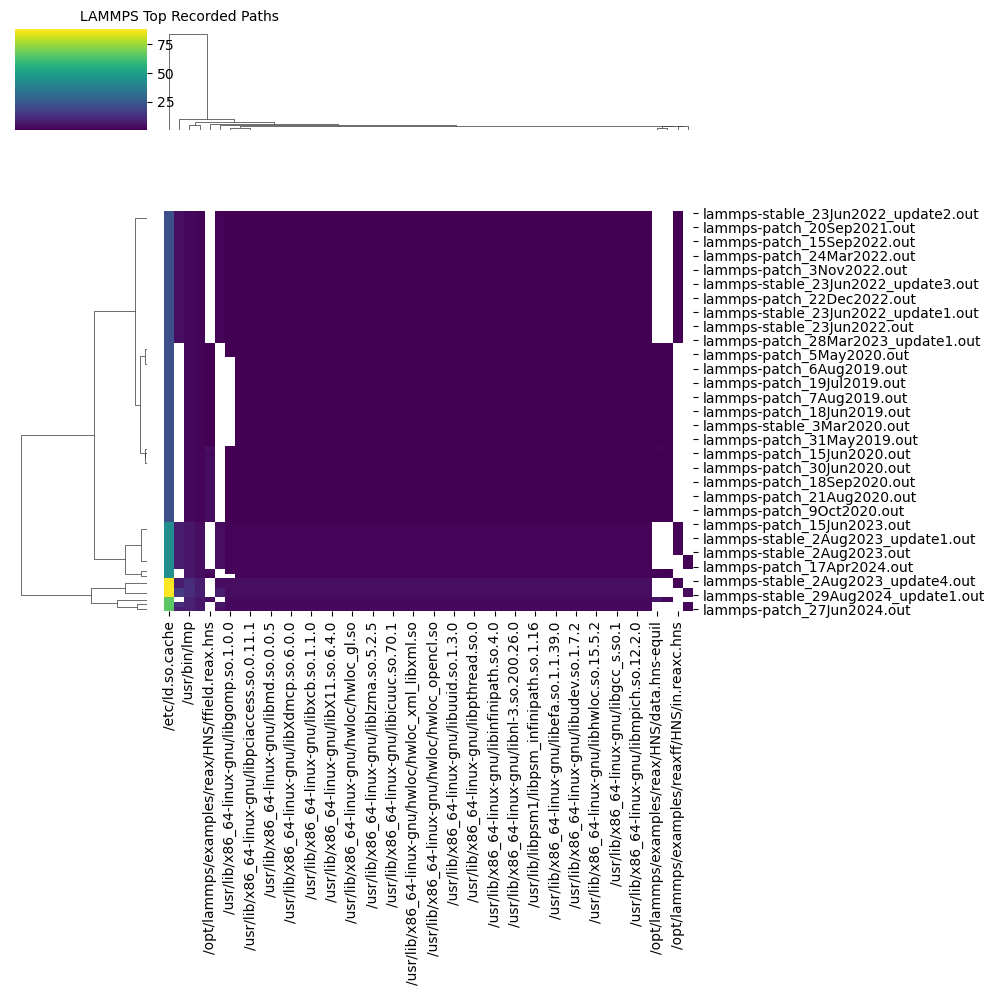
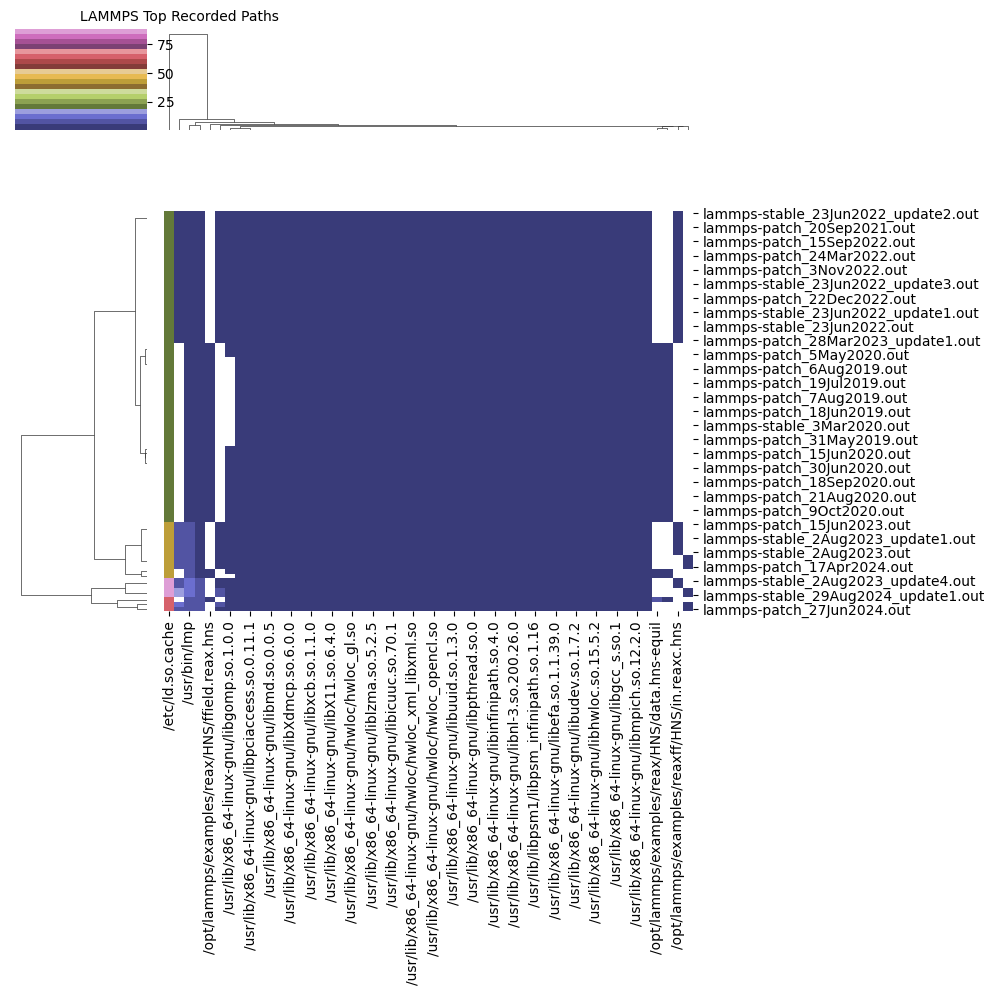
update colors

Changed region(s): [[0.155, 0.186, 0.713, 0.62], [0.0, 0.031, 0.155, 0.155]]

diff --git a/fuse/analysis/plot-recording.py b/fuse/analysis/plot-recording.py
@@ -49,7 +49,7 @@ def main():
     counts = simcalc.all_counts()
     if args.n is not None and len(counts) < args.n:
         args.n = len(counts) - 1
-        shared_paths = list(counts)[: args.n]
+        shared_paths = list(counts)[:args.n]
     else:
         shared_paths = list(counts)
 
@@ -67,14 +67,12 @@ def main():
 
     plt.figure(figsize=(20, 20))
     df.index = [os.path.basename(x) for x in df.index]
-    sns.clustermap(df, mask=(df == 0.0), cmap="viridis")
+    sns.clustermap(df, mask=(df == 0.0), cmap="tab20b")
 
     if args.n is not None:
         save_path = f"{args.name}-top-{args.n}-recorded-paths.png"
         title = f"{args.name} Top (N={args.n}) Recorded Paths"
-        trie_title = (
-            f"Filesystem Recording Trie for {args.name} Top {args.n} Recorded Paths"
-        )
+        trie_title = f"Filesystem Recording Trie for {args.name} Top {args.n} Recorded Paths"
         trie_save = f"{args.name}-top-{args.n}-recorded-paths-trie.png"
     else:
         save_path = f"{args.name}-recorded-paths.png"
